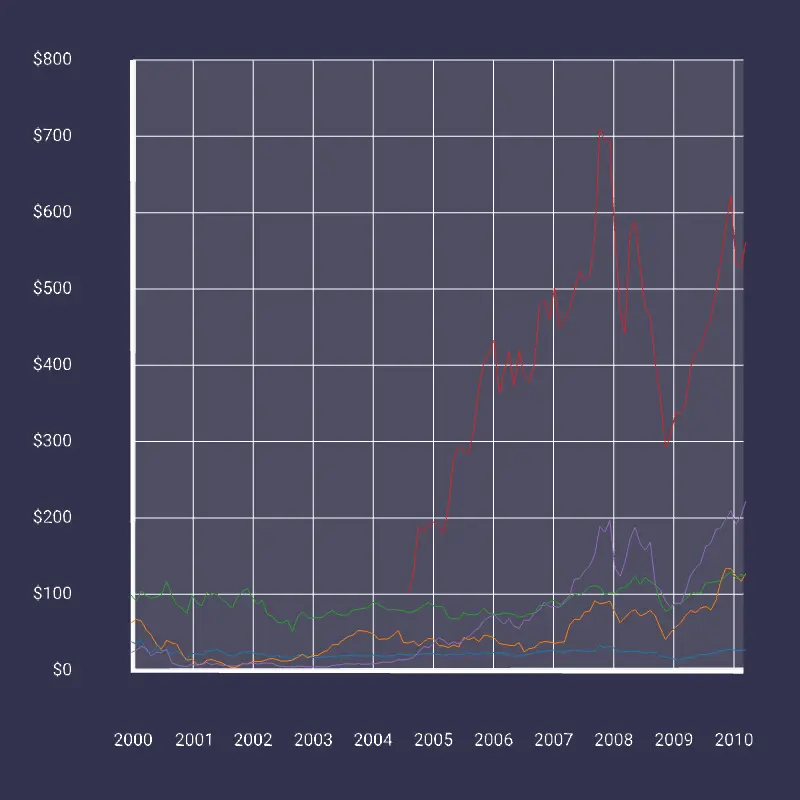
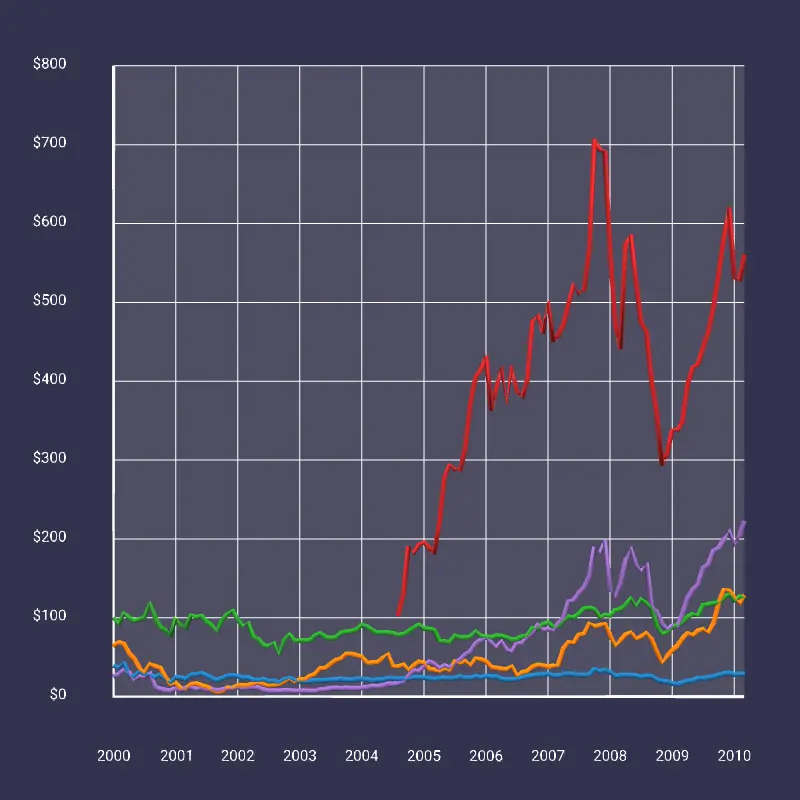
Update line examples

diff --git a/docs/anu-examples/linechart2DTubes.js b/docs/anu-examples/linechart2DTubes.js
@@ -7,7 +7,7 @@ import * as d3 from 'd3';
 import data from './data/stocks.csv';
 
 //Create and export a function that takes a Babylon engine and returns a Babylon Scene
-export function linechart2D(engine){
+export function linechart2DTubes(engine){
 
   //Create an empty Scene
   const scene = new BABYLON.Scene(engine);
@@ -38,17 +38,21 @@ export function linechart2D(engine){
     return acc;
   }, {} ));
 
-  //For each point in our paths array of arrays, set the color based on the line it belongs to
-  let colors = paths.map((path, i) => path.map(() => scaleC(i)));
-
   //Create a Center of Transform TransformNode that serves the parent node for all our meshes that make up our chart
   let CoT = anu.create('cot', 'cot');
   //Select our CoT so that we have it as a Selection object
   let chart = anu.selectName('cot', scene);
 
-  //Create a lineSystem mesh as a child of our CoT that will render the paths we had defined
-  let lines = chart.bind('lineSystem', { lines: paths, colors: colors })
-                   .positionZ(-0.01); //Move forward to prevent z-fighting
+  //Create tubes as children of our CoT that will render the paths we had defined, one tube for each path
+  let lines = chart.bind('tube', { path: (d) => d, radius: 0.0075 }, paths)
+                   .material((d,n,i) => {
+                    //Set a material for each tube which is what determines its color
+                    const material = new BABYLON.StandardMaterial('LineMaterial' + i);
+                    material.diffuseColor = scaleC(i);    //Set base color
+                    material.emissiveColor = scaleC(i).multiplyByFloats(0.25, 0.25, 0.25);  //Make a bit brighter, using full values will blow out the color
+                    material.specularColor = BABYLON.Color3.Black();  //Disable reflections
+                    return material;
+                   });
 
   //Use the axes prefab with our two D3 scales with additional customizations
   anu.createAxes('myAxes', { scale: { x: scaleX, y: scaleY },

diff --git a/docs/anu-examples/areaChartStacked.js b/docs/anu-examples/areaChartStacked.js
@@ -82,5 +82,8 @@ export function areaChartStacked(engine){
   //Adjust the legend position
   legend.position(new BABYLON.Vector3(1.5, -1, 0));
 
+  //Shift the entire chart to the left to center it in the default camera view
+  chart.positionX(-0.25)
+
   return scene;
 }

diff --git a/docs/examples/line_chart_2D.md b/docs/examples/line_chart_2D.md
@@ -4,6 +4,7 @@ aside: false
 
 <script setup>
 import { linechart2D } from '../anu-examples/linechart2D.js'
+import { linechart2DTubes } from '../anu-examples/linechart2DTubes.js'
 </script>
 
 # 2D Line Chart
@@ -11,6 +12,11 @@ Basic 2D timeseries using [LineSystem](https://doc.babylonjs.com/features/featur
 
 <singleView :scene="linechart2D" />
 
+Alternatively, [Tubes](https://doc.babylonjs.com/features/featuresDeepDive/mesh/creation/param/tube/) can be used to provide further visual control over each line. In particular, the radius of each Tube can be set (LineSystem does not support this), making the lines easier to see from long distances.
+
+<singleView :scene="linechart2DTubes" />
+
 ::: code-group
 <<< @/./anu-examples/linechart2D.js 
+<<< @/./anu-examples/linechart2DTubes.js 
 :::
